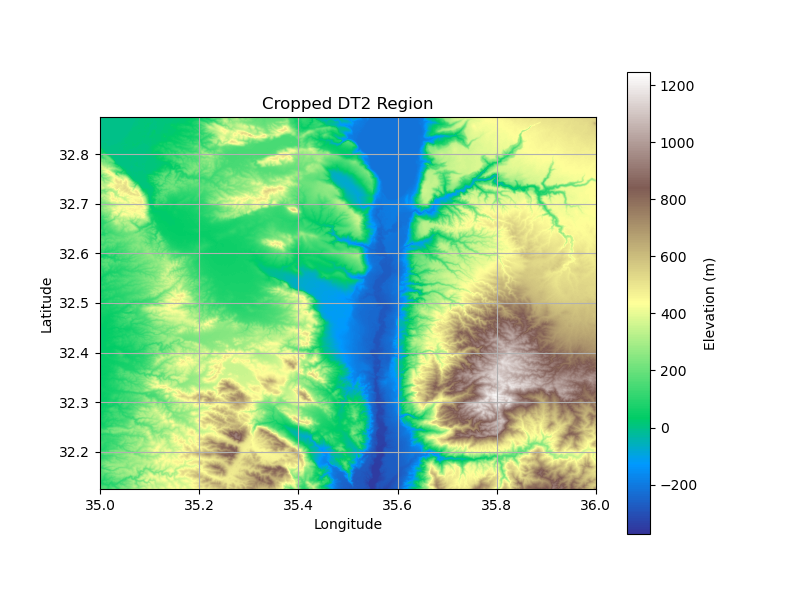
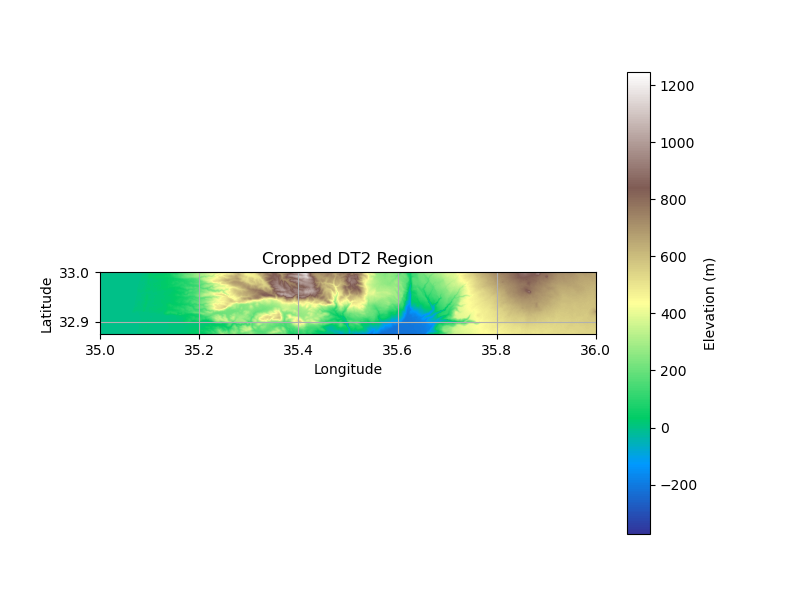
adding the kriging

diff --git a/Transformer_Map_Interp/models/kriging_interp.py b/Transformer_Map_Interp/models/kriging_interp.py
@@ -1,0 +1,111 @@
+from scipy.interpolate import griddata, Rbf
+from pykrige.ok import OrdinaryKriging
+import numpy as np
+import matplotlib.pyplot as plt
+import torch
+import sys, os
+from sklearn.neighbors import KDTree
+sys.path.append(os.path.abspath("."))  # project root
+from Transformer_Map_Interp.datasets.data import SpatialDataset
+from Transformer_Map_Interp.datasets.transformerRegressorDataClass import TransformerPointDataset
+def MSE(y_true, y_pred): return np.mean((y_true - y_pred)**2)
+def MAE(y_true, y_pred): return np.mean(np.abs(y_true - y_pred))
+
+
+def local_kriging_predict(pool_coords, pool_y, query_coords, k=100,
+                          variogram_model="spherical", nugget=1e-5):
+    """
+    Predicts values at query_coords using local Ordinary Kriging on the k nearest neighbors.
+    This avoids huge NxN memory issues by fitting a tiny Kriging model per query.
+    """
+    kdt = KDTree(pool_coords, metric='euclidean')
+    preds = np.zeros(len(query_coords))
+    for i, q in enumerate(query_coords):
+        # Find k nearest neighbors from the pool
+        idx = kdt.query(q.reshape(1, -1), k=min(k, len(pool_coords)),
+                        return_distance=False)[0]
+        neigh = pool_coords[idx]
+        vals  = pool_y[idx]
+        try:
+            OK = OrdinaryKriging(
+                neigh[:,1], neigh[:,0], vals,
+                variogram_model=variogram_model,
+                verbose=False, enable_plotting=False,
+                nugget=nugget,
+                coordinates_type="euclidean"
+            )
+            pred, _ = OK.execute("points", [q[1]], [q[0]])
+            preds[i] = pred
+        except Exception as e:
+            # If local fit fails (degenerate geometry), fallback to mean
+            preds[i] = np.mean(vals)
+    return np.array(preds)
+
+from pykrige.ok import OrdinaryKriging
+import numpy as np
+
+def kriging_from_obs(dataset, variogram_model="spherical", nugget=1e-5):
+    preds = []
+    for i in range(len(dataset.query_coords)):
+        obs_coords = dataset.obs_coords[i].numpy()
+        obs_y = dataset.obs_y[i].numpy()
+        q_coord = dataset.query_coords[i].numpy()
+        x = obs_coords[:,1]
+        y = obs_coords[:,0]
+        try:
+            OK = OrdinaryKriging(
+                x, y, obs_y,
+                variogram_model=variogram_model,
+                verbose=False, enable_plotting=False,
+                coordinates_type="euclidean"
+            )
+            pred, _ = OK.execute("points", [q_coord[1]], [q_coord[0]])
+        except ValueError as e:
+            print(f"Kriging failed (degenerate variogram): {e}")
+            pred = np.mean(obs_y)
+        preds.append(float(pred))
+            
+    return np.array(preds)
+
+
+
+# ===========================================================
+# Run all methods on VALID + TEST
+# ===========================================================
+print("loading trainset...")
+trainset = torch.load(r"./Transformer_Map_Interp/cache/trainset_n32_e035_1arc_v3_cropped_train_n32_e035_1arc_v3_cropped_val_n32_e035_1arc_v3_cropped_test_keep_n0.001_seed5.pt",map_location="cpu",weights_only=False)
+#validset = torch.load(r"./Transformer_Map_Interp/cache/validset_n32_e035_1arc_v3_cropped_train_n32_e035_1arc_v3_cropped_val_n32_e035_1arc_v3_cropped_test_keep_n0.001_seed5.pt",map_location="cpu",weights_only=False)
+#testset = torch.load(r"./Transformer_Map_Interp/cache/testset_n32_e035_1arc_v3_cropped_train_n32_e035_1arc_v3_cropped_val_n32_e035_1arc_v3_cropped_test_keep_n0.001_seed5.pt",map_location="cpu",weights_only=False)
+print("loading testset...")
+testset = torch.load(r"./Transformer_Map_Interp/cache/testset_recreated.pt",map_location="cpu",weights_only=False)
+print("loading valset...")
+validset = torch.load(r"./Transformer_Map_Interp/cache/valset_recreated.pt",map_location="cpu",weights_only=False)
+# Convert tensors to numpy
+train_coords = trainset.coords.detach().cpu().numpy()
+train_y = trainset.y.detach().cpu().numpy().flatten()
+train_y_norm = trainset.y_norm.detach().cpu().numpy().flatten()
+
+valid_coords = validset.coords.detach().cpu().numpy()
+valid_y_true = validset.y.detach().cpu().numpy().flatten()
+#valid_y_true_norm = validset.y_norm.detach().cpu().numpy().flatten()
+
+test_coords = testset.coords.detach().cpu().numpy()
+test_y_true = testset.y .detach().cpu().numpy().flatten()
+#test_y_true = testset.y .detach().cpu().numpy().flatten()
+
+val_pool_coords = np.concatenate([train_coords, valid_coords], axis=0)
+val_pool_y = np.concatenate([train_y, valid_y_true], axis=0)
+
+test_pool_coords = np.concatenate([train_coords, test_coords], axis=0)
+test_pool_y = np.concatenate([train_y, test_y_true], axis=0)
+
+# ===========================================================
+# 3⃣ Kriging on VALID (train + test pool)
+# ===========================================================
+# valid_y_krig = local_kriging_predict(val_pool_coords, val_pool_y, valid_coords, k=100)
+# test_y_krig = local_kriging_predict(test_pool_coords, test_pool_y, test_coords, k=120)
+valid_y_krig = kriging_from_obs(validset)
+print(f"VALID: MSE={MSE(valid_y_true, valid_y_krig):.4f} | MAE={MAE(valid_y_true, valid_y_krig):.4f}")
+
+test_y_krig = kriging_from_obs(testset)
+print(f"TEST:  MSE={MSE(test_y_true, test_y_krig):.4f} | MAE={MAE(test_y_true, test_y_krig):.4f}")

diff --git a/Transformer_Map_Interp/datasets/dataset_statictics.py b/Transformer_Map_Interp/datasets/dataset_statictics.py
@@ -1,0 +1,95 @@
+import os, sys
+import torch
+import numpy as np
+import matplotlib.pyplot as plt
+sys.path.append(os.path.abspath("."))  # project root
+from Transformer_Map_Interp.datasets.data import SpatialDataset
+from Transformer_Map_Interp.datasets.transformerRegressorDataClass import TransformerPointDataset
+from Transformer_Map_Interp.datasets.transformerRegressorDataClass import TransformerPointDataset, collate_point_batches
+from Transformer_Map_Interp.datasets.dt2_data import load_multi_dt2_data
+
+# -------------------------------------------------------------
+# Configuration
+# -------------------------------------------------------------
+cache_dir = "Transformer_Map_Interp/cache"  # path to cached npz/tensors
+device = "cpu"
+sets = ["trainset_n32_e035_1arc_v3_cropped_train_n32_e035_1arc_v3_cropped_val_n32_e035_1arc_v3_cropped_test_keep_n0.001_seed5", "validset_n32_e035_1arc_v3_cropped_train_n32_e035_1arc_v3_cropped_val_n32_e035_1arc_v3_cropped_test_keep_n0.001_seed5", "testset_n32_e035_1arc_v3_cropped_train_n32_e035_1arc_v3_cropped_val_n32_e035_1arc_v3_cropped_test_keep_n0.001_seed5"]
+
+# -------------------------------------------------------------
+# Helper functions
+# -------------------------------------------------------------
+def describe_elevations(y, label):
+    y = np.asarray(y)
+    print(f"\n[{label}] Elevation Stats:")
+    print(f"  Mean:  {y.mean():.3f}")
+    print(f"  Std:   {y.std():.3f}")
+    print(f"  Min:   {y.min():.3f}")
+    print(f"  Max:   {y.max():.3f}")
+    print(f"  NaNs:  {np.isnan(y).sum()}")
+
+def describe_neighbors(ds, label):
+    neighbor_counts = []
+    for i in range(len(ds)):
+        obs_coords = ds.obs_coords[i]
+        neighbor_counts.append(obs_coords.shape[0])
+    neighbor_counts = np.array(neighbor_counts)
+    print(f"\n[{label}] Neighbor Count:")
+    print(f"  Mean: {neighbor_counts.mean():.2f}")
+    print(f"  Std:  {neighbor_counts.std():.2f}")
+    print(f"  Min:  {neighbor_counts.min()}  Max: {neighbor_counts.max()}")
+    return neighbor_counts
+
+def plot_hist(data, title, xlabel, bins=40):
+    plt.figure(figsize=(6, 4))
+    plt.hist(data, bins=bins, alpha=0.7, edgecolor='black')
+    plt.title(title)
+    plt.xlabel(xlabel)
+    plt.ylabel("Count")
+    plt.tight_layout()
+    plt.show()
+
+# -------------------------------------------------------------
+# Load dataset splits
+# -------------------------------------------------------------
+for phase in sets:
+    print(f"\n--- Analyzing {phase.upper()} set ---")
+    #dataset = TransformerPointDataset(cache_dir=cache_dir, split=phase, device=device)
+    path = os.path.join(cache_dir, f"{phase}.pt")
+    dataset = torch.load(path,map_location="cpu",weights_only=False)
+    
+    # Elevations
+    obs_y = torch.cat(dataset.obs_y).cpu().numpy()  # unnormalized elevations
+    q_y = torch.cat(dataset.y).cpu().numpy()
+    obs_y_norm = torch.cat(dataset.obs_y_norm).cpu().numpy()  # unnormalized elevations
+    q_y_norm = torch.cat(dataset.y_norm).cpu().numpy()
+    
+
+    # Print elevation stats
+    describe_elevations(obs_y, f"{phase} (raw)")
+    describe_elevations(y_norm, f"{phase} (normalized)")
+
+    # Neighbor stats
+    neighbor_counts = describe_neighbors(dataset, phase)
+
+    # -------------------------------------------------------------
+    # Plots
+    # -------------------------------------------------------------
+    plot_hist(obs_y, f"{phase} Elevation (raw)", "Elevation [m]")
+    plot_hist(y_norm, f"{phase} Elevation (normalized)", "Normalized elevation")
+    plot_hist(neighbor_counts, f"{phase} Neighbor Count", "Neighbors per query")
+
+    # Optional: show spatial coverage
+    if hasattr(dataset, "obs_coords"):
+        all_coords = torch.cat(dataset.obs_coords).cpu().numpy()
+        plt.figure(figsize=(5, 5))
+        plt.scatter(all_coords[:, 1], all_coords[:, 0], s=1, alpha=0.3)
+        plt.title(f"{phase} observation coordinate map")
+        plt.xlabel("Longitude")
+        plt.ylabel("Latitude")
+        plt.tight_layout()
+        plt.show()
+
+# -------------------------------------------------------------
+# Overall summary (optional)
+# -------------------------------------------------------------
+print("\n✅ Dataset analysis complete.")

diff --git a/Transformer_Map_Interp/models/basic_interp.py b/Transformer_Map_Interp/models/basic_interp.py
@@ -83,6 +83,9 @@ print(f"map on test: {interp_map_test}")
 test_error = test_y_true - test_y_interp
 valid_error = valid_y_true - valid_y_interp
 
+print("MSE\MAP results...")
+print(f"Test MSE: {interp_mse_test}, Test MAP: {interp_map_test}")
+print(f"Valid MSE: {interp_mse_valid}, Valid MAP: {interp_map_valid}")
 # Plot error map
 plt.figure(1)
 sc = plt.scatter(test_coords[:, 1], test_coords[:, 0], c=test_error, cmap="coolwarm", s=5)
@@ -102,7 +105,7 @@ plt.xlabel("Longitude")
 plt.ylabel("Latitude")
 plt.title(f"Interpolation Error Map Valid ({interp_method})")
 plt.grid(True)
-plt.savefig("basic_interp_reference/error_on_map_valis.png", dpi=300, bbox_inches='tight')
+plt.savefig("./Transformer_Map_Interp/basic_interp_results/error_on_map_valid.png", dpi=300, bbox_inches='tight')
 plt.show()
 
 # Histogram
@@ -112,7 +115,7 @@ plt.title(f"Error Test Histogram - {interp_method} Interpolation")
 plt.xlabel("Error (m)")
 plt.ylabel("Amount")
 plt.grid(True)
-plt.savefig("basic_interp_reference/Error_Test_Histogram.png", dpi=300, bbox_inches='tight')
+plt.savefig("./Transformer_Map_Interp/basic_interp_results/Error_Test_Histogram.png", dpi=300, bbox_inches='tight')
 plt.show()
 
 plt.figure(figsize=(10, 8))
@@ -121,6 +124,6 @@ plt.title(f"Error Valid Histogram - {interp_method} Interpolation")
 plt.xlabel("Error(m)")
 plt.ylabel("Amount")
 plt.grid(True)
-plt.savefig("basic_interp_reference/Error_Valid_Histogram.png", dpi=300, bbox_inches='tight')
+plt.savefig("./Transformer_Map_Interp/basic_interp_results/Error_Valid_Histogram.png", dpi=300, bbox_inches='tight')
 plt.show()
 

diff --git a/Transformer_Map_Interp/argument_transformer.py b/Transformer_Map_Interp/argument_transformer.py
@@ -43,8 +43,8 @@ def parse_opt():
     
     parser.add_argument('--lr', type=float, default=1e-4, help='Learning rate.')
     parser.add_argument('--weight_decay', type=float, default=3e-4, help='Weight decay for the optimizer.')
-    parser.add_argument('--epochs', type=int, default=100, help='Number of training epochs.')
-    parser.add_argument('--es_patience', type=int, default=20, help='Patience for early stopping.')
+    parser.add_argument('--epochs', type=int, default=15, help='Number of training epochs.')
+    parser.add_argument('--es_patience', type=int, default=7, help='Patience for early stopping.')
     parser.add_argument('--batch_size', type=int, default=16, help='Batch size')
     
     parser.add_argument('--device', type=str, default="auto", help='Computation device.')
@@ -83,7 +83,7 @@ def parse_opt():
     parser.add_argument('--valid_file', type=str, default="n32_e035_1arc_v3_cropped_val.tiff")
     parser.add_argument('--test_file', type=str, default="n32_e035_1arc_v3_cropped_test.tiff")
     parser.add_argument('--calib_file', type=str, default="n32_e035_1arc_v3__cropped_test.tiff")
-    parser.add_argument('--keep_n_dict', type=str, default="train:0.05,valid:0.005,test:0.005,calib:0.000001")
+    parser.add_argument('--keep_n_dict', type=str, default="train:0.05,valid:0.05,test:0.05,calib:0.000001") #Orit - I changes this!! from 0.005 to 0.05
 
     args, unknowns = parser.parse_known_args()
     args.save_path = f"saved_models/{args.model}_{args.dataset}/"

diff --git a/Transformer_Map_Interp/datasets/test_again.py b/Transformer_Map_Interp/datasets/test_again.py
@@ -1,0 +1,33 @@
+import torch
+import numpy as np
+import sys, os
+sys.path.append(os.path.abspath("."))  # project root
+from Transformer_Map_Interp.datasets.dt2_data import DT2Dataset, set_creation_func
+
+# === CONFIG ===
+dt2_path = "Transformer_Map_Interp/datasets/n32_e035_1arc_v3_cropped_val.tiff"
+trainset_path = "Transformer_Map_Interp/cache/trainset_n32_e035_1arc_v3_cropped_train_n32_e035_1arc_v3_cropped_val_n32_e035_1arc_v3_cropped_test_keep_n0.001_seed5.pt"
+save_path = "Transformer_Map_Interp/cache/valset_recreated.pt"
+max_radius_km = 0.75  # same as in your args
+keep_ratio = 0.05    # same as before
+random_seed = 5       # same seed as before
+
+# === LOAD EXISTING TRAINSET ===
+trainset = torch.load(trainset_path, map_location="cpu", weights_only=False)
+print("Loaded trainset successfully!")
+
+# === LOAD NEW TEST TILE ===
+from Transformer_Map_Interp.datasets.dt2_data import DT2Dataset
+dataset = DT2Dataset(dt2_path, include_elevation_in_features=False)
+total = dataset.coords.shape[0]
+keep_n = int(total * keep_ratio)
+rng = np.random.RandomState(seed=random_seed)
+selected_idx = rng.choice(total, size=keep_n, replace=False)
+print(f"Selected {keep_n} / {total} points for test")
+
+# === CREATE NEW TESTSET ===
+from Transformer_Map_Interp.datasets.dt2_data import set_creation_func
+testset = set_creation_func(dataset, selected_idx, max_radius_km, trainset=trainset,neighbors_train_only=False)
+
+# === SAVE ===
+torch.save(testset, save_path)

diff --git a/transformerRegressor_run_experiment.py b/transformerRegressor_run_experiment.py
@@ -194,6 +194,19 @@ def run_transformer(args, tb_writer: SummaryWriter | None = None) -> Tuple[float
             best_state = {k: v.detach().cpu().clone() for k, v in model.state_dict().items()}
             torch.save(model.state_dict(), os.path.join(save_dir, f"best_model_{epoch}.pt"))
             print(f" New best model at epoch {epoch} with val_loss={best_val:.6f}")
+            
+        if (epoch % 5) == 0:
+            ckpt_path = os.path.join(save_dir, f"checkpoint_epoch{epoch+1}.pt")
+            torch.save({
+                "epoch": epoch + 1,
+                "model_state": model.state_dict(),
+                "optimizer_state": optim.state_dict(),
+                "best_val": best_val,
+                "metrics": metrics_rows,
+            }, ckpt_path)
+            print(f" 💾 Checkpoint saved at epoch {epoch+1} -> {ckpt_path}")
+            if tb_writer:
+                tb_writer.add_text("checkpoint", f"Saved checkpoint (epoch {epoch+1})", epoch)
 
         if (epoch > args.es_patience) and (len(metrics_rows) > (args.es_patience + 3)):
             recent = sum(r["val_loss_norm"] for r in metrics_rows[-3:]) / 3
@@ -201,6 +214,7 @@ def run_transformer(args, tb_writer: SummaryWriter | None = None) -> Tuple[float
             if recent > prev:
                 print(f"Early stopping at epoch {epoch}")
                 break
+        
     if tb_writer:
     # pack your args into a flat dict of strings/numbers
         hparams = {

diff --git a/Transformer_Map_Interp/datasets/cropping_map.py b/Transformer_Map_Interp/datasets/cropping_map.py
@@ -67,7 +67,7 @@ cropping_test = [bounds.bottom + 7*fraction_dy, bounds.top]
 # min_lat, max_lat = bounds.bottom , bounds.top
 
 min_lon, max_lon =  bounds.left , bounds.right # Avoid the sea!
-min_lat, max_lat = cropping_train
+min_lat, max_lat = cropping_test
 # -------------------- Plot Full Map with Crop Box --------------------
 plt.figure(figsize=(10, 8))
 plt.imshow(elevation, cmap='terrain', extent=extent, origin='upper', vmin=vmin, vmax=vmax)
@@ -97,7 +97,7 @@ with rasterio.open(dt2_file) as src:
     transform = src.window_transform(window)
 
 # ------------------- Saving cropped ---------------------
-output_path = "Transformer_Map_Interp/datasets/n32_e035_1arc_v3_cropped_train.tiff"
+output_path = "Transformer_Map_Interp/datasets/n32_e035_1arc_v3_cropped_test.tiff"
 with rasterio.open(dt2_file) as src:
     window = from_bounds(min_lon, min_lat, max_lon, max_lat, src.transform)
     cropped = src.read(1, window=window)

diff --git a/Transformer_Map_Interp/display/results_visualize.py b/Transformer_Map_Interp/display/results_visualize.py
@@ -5,7 +5,7 @@ import numpy as np
 import matplotlib.pyplot as plt
 
 # ====== EDIT IF NEEDED ======
-CSV  = "metrics.csv"     # path to your metrics CSV
+CSV  = "saved_models/kcn_n32_e035_1arc_v3_cropped/metrics.csv"     # path to your metrics CSV
 SAVE = True             # True = save PNGs, False = show() interactively
 OUT  = "metrics_plots"   # folder for saved figures if SAVE=True
 # ============================

diff --git a/Transformer_Map_Interp/datasets/dt_2_visualize.py b/Transformer_Map_Interp/datasets/dt_2_visualize.py
@@ -13,7 +13,7 @@ def degrees_to_meters(degree_res, latitude):
     return lat_res_m, lon_res_m 
 
 # Load the DTED file
-dt2_file = "Transformer_Map_Interp/datasets/n32_e035_1arc_v3_cropped_val.tiff"
+dt2_file = "Transformer_Map_Interp/datasets/n32_e035_1arc_v3_cropped_test_.tiff"
 
 with rasterio.open(dt2_file) as dataset:
     elevation = dataset.read(1)  # Read the first band (elevation values)

diff --git a/transformerRegressor_main.py b/transformerRegressor_main.py
@@ -40,4 +40,4 @@ if __name__ == "__main__":
 
     test_mse, test_mae = run_transformer(args, tb_writer=writer)
     print(f"Done. Test MSE={test_mse:.4f}, MAE={test_mae:.4f}")
-    writer.close()
+    #writer.close()
